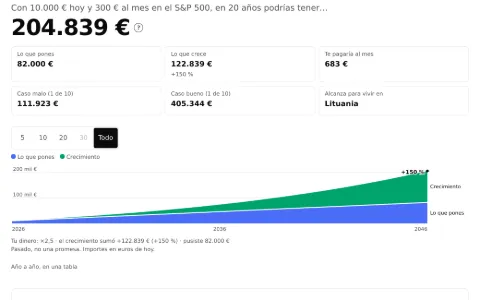
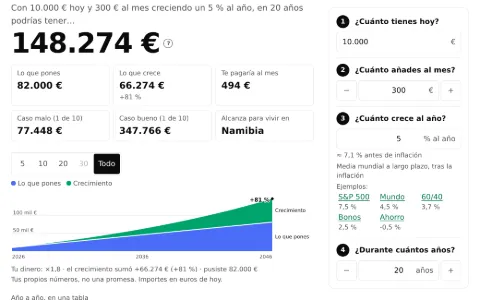
Wealth Lens: README, weight and the hub's screenshots for the comfort round
The README describes the four plain steps, step 3's % with its examples,
the button used once, the three layouts by width with the phone's bottom
sheet, the touch sizes and the table that agrees with "Enough to live
in", with this round's measurements and npm run test:browser. The weight
line in tools.json says 207 to 227 KB, as measured; the hub's pictures of
Wealth Lens show the new result.

Claude-Session: https://claude.ai/code/session_01BcV4Bj22BrAC8vej9vmEnb

diff --git a/projects/wealth-lens/README.md b/projects/wealth-lens/README.md
@@ -26,13 +26,15 @@ tabla de *Principles* del hub, `packages/seed-kit/src/tools.json`):
 | Your data never leaves your device | Cumple | Todo se calcula en el navegador; nada se guarda ni se envía. |
 | Transparent | En parte | Gratis, con método y fuentes públicos; los cambios del método aún no se publican. |
 | Truly European | Pendiente | EN y ES, pero alojada en Vercel (EE. UU.) y sin auditoría de accesibilidad hecha por personas. |
-| Light | Cumple | De 206 a 226 KB por página en la primera visita, por debajo del límite de 350 KB. |
+| Light | Cumple | De 207 a 227 KB por página en la primera visita, por debajo del límite de 350 KB. |
 | For everyone | En parte | Palabras sencillas, teclado y objetivos de 44 px; aún sin pruebas con personas reales. |
 
 **Estado actual (2026-10-02):** dos pantallas (Next.js 16 + TypeScript +
 Tailwind 4), exportadas como sitio estático. La principal empieza con
-**cuatro pasos numerados**, con los importes vacíos; el resultado llega al
-pulsar *See my result*, por niveles, y las metas son opcionales. La app no
+**cuatro pasos numerados**, con los importes vacíos y el crecimiento en
+5 %; el resultado llega al pulsar *See my result* (solo la primera vez),
+por niveles, colocado según el ancho de la ventana, y las metas son
+opcionales. El móvil es el diseño principal. La app no
 supone nada sobre la vida del usuario: no pregunta país, ni si alquila o
 es propietario, ni qué quiere hacer con su dinero. Nada se guarda ni se
 envía, y la app no llama a ningún servicio mientras se usa. La lógica
@@ -45,53 +47,43 @@ cambiar. Todo lo visible está en palabras simples: "real", "nominal",
 "volatility", "swings" y "percentile" solo aparecen en los "i" plegados
 (un test lo comprueba).
 
-- **My money — `/`**, de arriba abajo (pasos numerados, como la
-  calculadora de interés compuesto de investor.gov; el resultado ordenado
-  como una ficha de Google Finance):
-  1. **Cuatro pasos numerados**, cada uno con su número, su título, una
-     línea corta y su campo (en el móvil, el campo debajo; en pantalla
-     ancha, a la derecha, igual en los cuatro): *Your money today* (€),
-     *Your monthly saving* (€, con − / + de €50), *How it grows* (los
-     chips) y *Time* (1-60 años, con − / + de un año). Los importes
-     empiezan vacíos, con un ejemplo gris y en cursiva ("e.g. 1,000", "p.
-     ej. 1.000") que no parece un dato; el crecimiento y los años vienen
-     puestos y su paso lo dice como una elección: "Picked for you: the S&P
-     500. You can change it.", "Set for you: 20 years. You can change it."
-     Debajo de los pasos, **See my result**: funciona cuando están los dos
-     importes (0 es una respuesta; un campo vacío, no); antes dice "Write
-     both amounts to see your result." y, si se pulsa, lleva al campo
-     vacío. Al pulsarlo el resultado aparece con un fundido y un pequeño
-     desplazamiento (sin movimiento si el sistema lo pide), la página se
-     desliza hasta él y él recibe el foco; desde entonces sigue cada
-     cambio sin botón. Se recalcula cuando el usuario termina de escribir
-     (500 ms sin teclear, al salir del campo o con Enter), nunca con cada
-     tecla; tras un cambio se marcan un momento solo las cifras que
-     cambiaron y nada cambia de sitio. Con resultado, bajo el aporte
-     mensual: "+€50 a month → +€27,000 in 20 years"; bajo los años: "5
-     more years → +€33,000" (las cifras de sus *What if…?*). Al final,
-     discreto, **More options**.
-  2. **El crecimiento, en un toque** (paso 3): *S&P 500 ~7.5%*, *World
-     ~4.5%*, *60/40*, *Bonds*, *Savings* y *My %* (el S&P 500 viene
-     elegido; el elegido, oscuro y con ✓). Sin lista que abrir, sin panel *Edit*, sin
-     conmutador antes/después: se ve una sola cifra, "Grows 7.5% a year
-     after rising prices", y debajo, pequeña y de solo lectura, "≈ 9.7%
-     before inflation". *My %* abre un campo para escribir ese número
-     (crecimiento después de inflación), empezando por el que se veía. Si
-     supera el mejor promedio de 20 años seguidos de cualquier activo de
-     los datos (`src/lib/realism.ts`: hoy el S&P 500 en 1980–1999, 13 %),
-     debajo: "Very rare: no broad index kept this for 20 years. The best
-     was 13% (S&P 500, 1980–1999)." **More options**, plegado y cargado al
-     abrirlo: cualquier otra inversión (la lista agrupada con buscador por
-     nombre o ticker: Nasdaq-100, oro, "A mix…" con plantillas 100% stocks,
-     80/20 y 60/40 y acciones de la lista, My portfolio si hay holdings),
-     *How much it can go up or down in a normal year* (con su ejemplo en
-     euros y "Historically, assets growing about 7.5% moved about ±16% a
-     year"), *Rising prices in* (país, Países Bajos por defecto) y *Prices
-     rise per year*, cada uno con su estándar al lado, *Reset to standard*
-     y el "i" que explica cómo usan las simulaciones esas cifras. Un cambio
-     ahí marca *More options* como **Custom**, y la línea del crecimiento
-     nombra lo elegido cuando ningún chip lo es ("Nasdaq-100: Grows 9.9% a
-     year after rising prices").
+- **My money — `/`**, para cualquiera, de quien tiene prisa a quien no se
+  maneja con la tecnología: poco texto suelto, cada cosa se explica por su
+  forma, y el móvil primero (el 55 % de las visitas en Europa):
+  1. **Cuatro pasos iguales**: número, pregunta corta y una sola casilla.
+     *How much do you have?* (€), *What do you add a month?* (€, con − / +
+     de €50), *How much does it grow?* (% al año) y *For how many years?*
+     (1-60, empieza en 20, con − / +). Sin líneas de ayuda salvo en el paso
+     3. Columnas de ancho fijo y preguntas en una línea: la tarjeta mide lo
+     mismo en inglés y en español a 360, 1366 y 1920 px (lo comprueba
+     `npm run test:browser`). Los importes empiezan vacíos, con un ejemplo
+     gris y en cursiva que no parece un dato. Casillas de 16 px (el iPhone
+     no amplía al tocarlas), teclado numérico, y Enter pasa al paso
+     siguiente y del último al botón. Debajo de los pasos, **See my
+     result**, lo único destacado de la tarjeta: funciona con los dos
+     importes escritos (0 es una respuesta; vacío, no) y, si se pulsa
+     antes, lleva al campo vacío. Se usa solo para el primer resultado:
+     después desaparece y todo se actualiza en vivo (cuando el usuario
+     termina de escribir: 500 ms sin teclear, al salir del campo o con
+     Enter). **More options** sale de la tarjeta: un enlace discreto
+     debajo, con su propio panel.
+  2. **El paso 3, una casilla de %**, con 5 ya escrito: las acciones del
+     mundo crecieron un 5,2 % al año tras la inflación de 1900 a 2024
+     (UBS Global Investment Returns Yearbook 2025; la fuente está en *How
+     it works*). Bajo la casilla, en pequeño, "≈ 7.1% before inflation";
+     una línea, "World average over the long run, after inflation" (o de
+     dónde sale la cifra elegida, o "Your own number, after inflation"); y
+     **Examples:** *S&P 500 7.5%*, *World 4.5%*, *60/40*, *Bonds* y
+     *Savings*, enlaces que rellenan la casilla y marcan cuál coincide. La
+     cifra de un ejemplo usa sus propios años pasados; cualquier otra es
+     Custom growth, que sube y baja como las acciones del mundo. Si supera
+     el mejor promedio de 20 años seguidos de los datos (13 %), la línea
+     avisa en su mismo sitio y tamaño: "Very rare: the best 20 years in
+     the data gave 13%." **More options**, cargado al abrirlo: cualquier
+     otra inversión (Nasdaq-100, oro, "A mix…", My portfolio), *How much it
+     can go up or down in a normal year*, *Rising prices in* y *Prices rise
+     per year*, con *Reset to standard* (que deja el número del paso 3).
+     Un cambio ahí marca *More options* como **Custom**.
   3. **El resultado, por niveles**, al pulsar *See my result*:
      - Primero, lo que dijo el usuario: "With €1,100 today and €100 monthly
        in the S&P 500, in 20 years you could have…", y el total en grande,
@@ -114,15 +106,18 @@ cambiar. Todo lo visible está en palabras simples: "real", "nominal",
        +€63,288 (+129%) · put in €49,000" y la tabla año a año, plegada.
      - Cuatro secciones con su título siempre a la vista, en este orden;
        solo su detalle largo espera tras *See more*:
-       - **What if…?**: los cinco escenarios en una fila (*Grows 1% more /
-         less*, *+€50 a month*, *5 more years* y *A bad first decade*, con
-         los diez primeros años en el percentil 10 del Monte Carlo), cada
-         uno con lo que cambia; tocar uno lo aplica a toda la pantalla, con
+       - **What if…?** (en el móvil, bajo el gráfico; en pantalla ancha, al
+         lado, ver abajo): los cinco escenarios (*Grows 1% more / less*,
+         *+€50 a month*, *5 more years* y *A bad first decade*, con los
+         diez primeros años en el percentil 10 del Monte Carlo), cada uno
+         con lo que cambia; tocar uno lo aplica a toda la pantalla, con
          "What if: 5 more years ×" junto al total para quitarlo. No se
          guarda en el archivo.
        - **Where it reaches**: la tabla de países con dos columnas (sin /
-         con vivienda, una persona, al mes), 7 filas, buscador, "Show all
-         172" y un "+" para añadir a My goals; tras *See more*, *Things you
+         con vivienda, una persona, al mes), 7 filas: primero los países ya
+         cubiertos (✓), incluido el que nombra *Enough to live in*, luego
+         los más cercanos a cubrirse, y Perú y Países Bajos para comparar;
+         buscador, "Show all 172" y un "+" para añadir a My goals; tras *See more*, *Things you
          could buy* (las 19 compras con "✓ now" o "in N years" y su fuente
          al tocarlas).
        - **My goals**: cuatro tipos combinables (*Live somewhere*, *Buy
@@ -140,6 +135,23 @@ cambiar. Todo lo visible está en palabras simples: "real", "nominal",
 
      Los "?" quedan junto al total y a cuántas historias aguantó el
      retiro; el resto de ayudas son una frase dentro de su sección.
+  4. **Tras el primer resultado, según el ancho de la ventana**:
+     - 1440 px o más: tres columnas. A la izquierda, estrecha y a la vista
+       al desplazar, *What if…?* como lista; en el centro, la más ancha
+       (768 px a 1440), el resultado; a la derecha, estrecha y a la vista,
+       los cuatro pasos en versión reducida y *More options*. La cabecera
+       y el pie se ensanchan con ellas.
+     - De 1024 a 1439 px: dos columnas, el resultado a la izquierda y, a la
+       derecha y a la vista, los pasos y debajo *What if…?*.
+     - Menos de 1024 px (móvil): una columna, y abajo, donde llega el
+       pulgar, una barra con el plan ("€1,100 · €100/month · 5% · 20
+       years") y **Edit**, que abre los pasos desde abajo en como mucho la
+       mitad de la pantalla y mueve la página para que el número grande
+       quede encima, cambiando en vivo mientras se edita.
+     - Los pasos son siempre el mismo elemento y se deslizan a su sitio
+       con una view transition; sin animación con *prefers-reduced-motion*.
+     - Todo control mide al menos 44 × 44 px, ningún texto del resultado
+       baja de 14 px, y nada importante aparece solo al pasar el ratón.
 - **My stocks — `/stocks`**: ganancia, holdings (añadir,
   editar, importar CSV), cómo se movió cada uno, y los 3 ETFs (VUAA,
   VWCE, EQQQ) y 12 acciones grandes. Cada fila lleva una línea pequeña del
@@ -385,6 +397,17 @@ mano desde las cifras publicadas (ver "Retornos").
   mediana 0,4 ms, máximo 1,5 ms. Lighthouse móvil: `/` 99, `/es` 98,
   `/stocks` 99 de rendimiento, 100 en lo demás; axe sin fallos en el
   resultado completo, claro y oscuro.
+  **Comodidad (2026-10).** Primera visita de 207 a 227 KB por página; la
+  lista de *What if…?* al lado del resultado viaja con el código del
+  resultado. Recálculo (72 recálculos, EN y ES a 1366 px tras el primer
+  resultado: − / + del aporte y de los años, cada ejemplo del paso 3, un %
+  escrito, un *What if…?* puesto y quitado; las pestañas no recalculan):
+  mediana 0,6 ms, máximo 14,1 ms (la primera vez que se elige *Savings*).
+  Lighthouse móvil: `/` 96-99 según la pasada, `/es` 96, `/stocks` 97 de
+  rendimiento, 100 en lo demás; axe sin fallos en el resultado completo,
+  claro y oscuro. `npm run test:browser` (tras `npm run build`) lo
+  comprueba en un navegador real: tamaños iguales en EN y ES, las tres
+  disposiciones, el panel inferior, el botón una sola vez y 44 × 44 px.
 - Sin credenciales de bróker ni APIs de pago — respeta la regla de
   costo cero de seed-lab.
 
@@ -769,6 +792,7 @@ y abrir `http://<IP-de-la-máquina>:3000` desde la misma red.
 
 ```bash
 npm test          # tests unitarios (Vitest), una sola pasada
+npm run test:browser  # tras npm run build: la página en un navegador real (Playwright)
 npm run test:watch
 npm run lint      # ESLint (config de Next.js)
 npm run typecheck # tipos de TypeScript, también los de seed-kit
@@ -787,20 +811,22 @@ activar, cambiar y quitar; sigue con el plan; no se guarda; ±1 % mueve
 también las mezclas; *A bad first decade* sigue el percentil 10, retrasa
 metas y países, usa la oscilación escrita y no existe sin altibajos), la
 ausencia de jerga en los textos visibles, la entrada nueva (renderizada en
-EN y ES: los cuatro pasos numerados y en orden, cada uno con su línea
-atada a su campo, solo el crecimiento y los años rellenos y dichos como
-elección, los ejemplos como placeholder, *See my result* al final de los
-pasos y antes de More options, sin funcionar hasta tener los dos importes
-y diciendo por qué, los tres puntos de confianza y ningún resultado,
-gráfico, aviso ni "?"; los seis chips con el S&P 500 elegido y su ✓;
-*My %* con su campo y su equivalente antes de inflación; el resultado con
-la frase de lo que dijo el usuario y sus variantes, el número, los seis
-datos clave en su cuadrícula de 2 y 3 columnas, cada uno un botón, las
-pestañas del gráfico, las cuatro secciones con título en su orden y lo
-que queda tras *See more*; las líneas junto a los pasos 2 y 4; la
-llegada suave que respeta el movimiento reducido; y que el resultado, sus
-secciones, las líneas de los pasos y More options se cargan al
-necesitarse), elegir un chip y *My %* sobre el estado, `planReady`, la
+EN y ES: cuatro preguntas cortas en pasos numerados, en orden, una casilla
+cada una y sin líneas de ayuda salvo en el paso 3; el paso 3 en 5 con su
+línea, su "antes de inflación" y cinco ejemplos sin marcar; los ejemplos
+grises; teclado numérico y Enter al paso siguiente; columnas de ancho
+fijo; *See my result* lo único destacado, sin funcionar hasta tener los
+dos importes; More options fuera de la tarjeta; ningún resultado ni
+aviso; el paso 3 con otra cifra, un ejemplo marcado o el aviso de realismo
+en el mismo sitio; el botón solo la primera vez, sin volver con ningún
+cambio; las tres disposiciones por ancho y la barra con el panel inferior
+del móvil; la celda *Enough to live in* en la tabla y las mismas cifras de
+aporte, crecimiento y "could pay you" en todas partes; el resultado con la
+frase de lo que dijo el usuario, el número, los datos clave, las pestañas
+del gráfico y sus secciones; y que el resultado, sus secciones y More
+options se cargan al necesitarse), los ejemplos del paso 3 sobre el estado
+(una cifra de ejemplo usa sus datos; otra es Custom growth con las
+oscilaciones del mundo; la misma cifra no cambia nada), `planReady`, la
 tabla de países (30 filas ordenadas, dos columnas, ✓ si y solo si el
 ingreso lo paga, filas por defecto), las metas (cada tipo, varias,
 independientes, orden estable al añadir y quitar, tope de 60 años con el
@@ -846,10 +872,13 @@ src/
                                / (My money), /stocks (My stocks), /test;
                                not-found.tsx, HTML sin código propio;
                                icon.svg (los colores y la cabecera: seed-kit)
-  components/                  money/ (calculator-card: los cuatro pasos y See my
-                               result; growth-chips; step-hints: las líneas de
-                               los pasos 2 y 4; more-options, cargado al
-                               abrirlo; results: el resultado por niveles;
+  components/                  money/ (money-module: la página y sus tres
+                               disposiciones, la barra y el panel del móvil;
+                               calculator-card: los cuatro pasos, See my result
+                               y More options; growth-field: el paso 3;
+                               first-result: si ya se pidió el resultado;
+                               more-options, cargado al abrirlo; results: el
+                               resultado por niveles;
                                key-facts: los seis datos clave; result-section:
                                las secciones con título y See more; mezcla, cartera,
                                gráfico, metas, países, hallazgos, compras;
@@ -873,7 +902,7 @@ src/
     assets.ts           lo que se puede proyectar: índices, bonos, oro, ahorro
     investment.ts       supuestos estándar y cambiados: crecimiento, oscilación, simulación
     assumptions.ts      la línea del crecimiento, la de supuestos y las pistas de More options
-    chips.ts            los chips del crecimiento: qué invierte cada uno, My %
+    examples.ts         el paso 3: sus ejemplos, qué invierte cada uno y la casilla de %
     growth.ts           "Grows about 7.5% a year", ×Z y +P %, etiqueta y tooltip del gráfico
     realism.ts          el mejor promedio de 20 años de los datos y el activo de crecimiento más cercano
     what-if.ts          los cinco "What if…?": qué cambia cada uno
